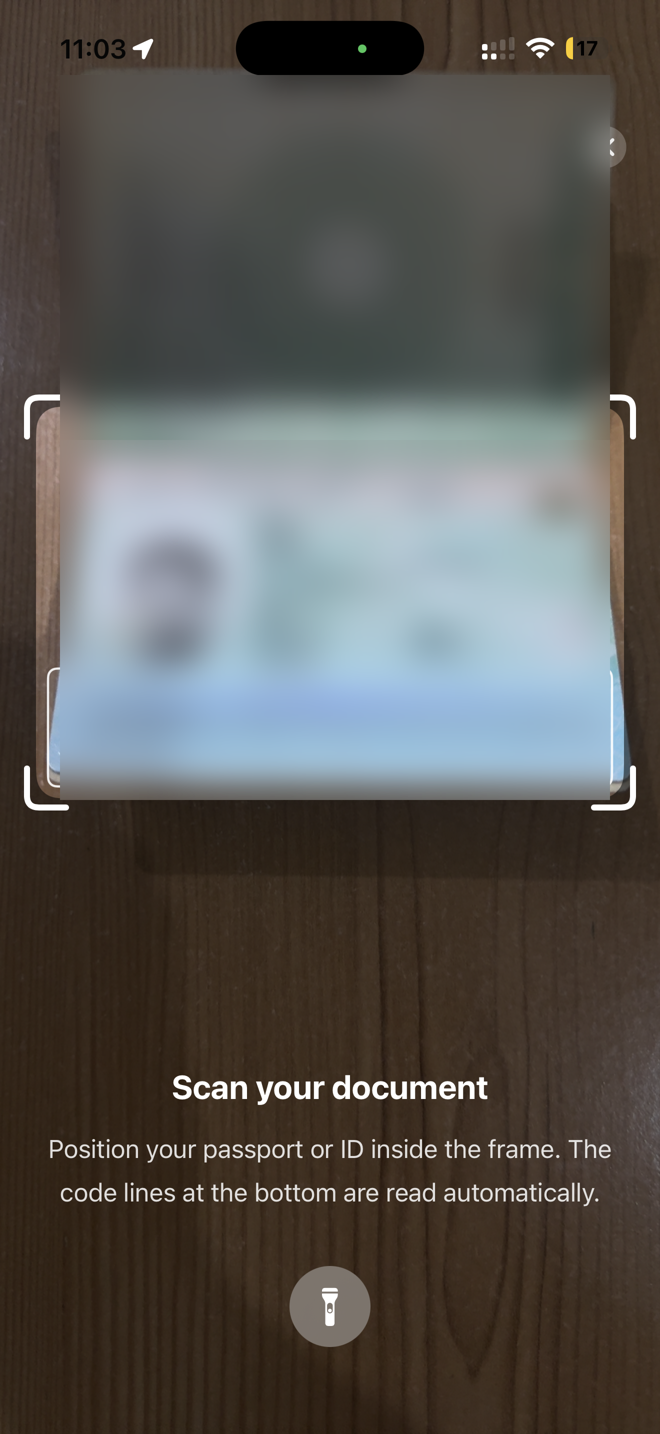
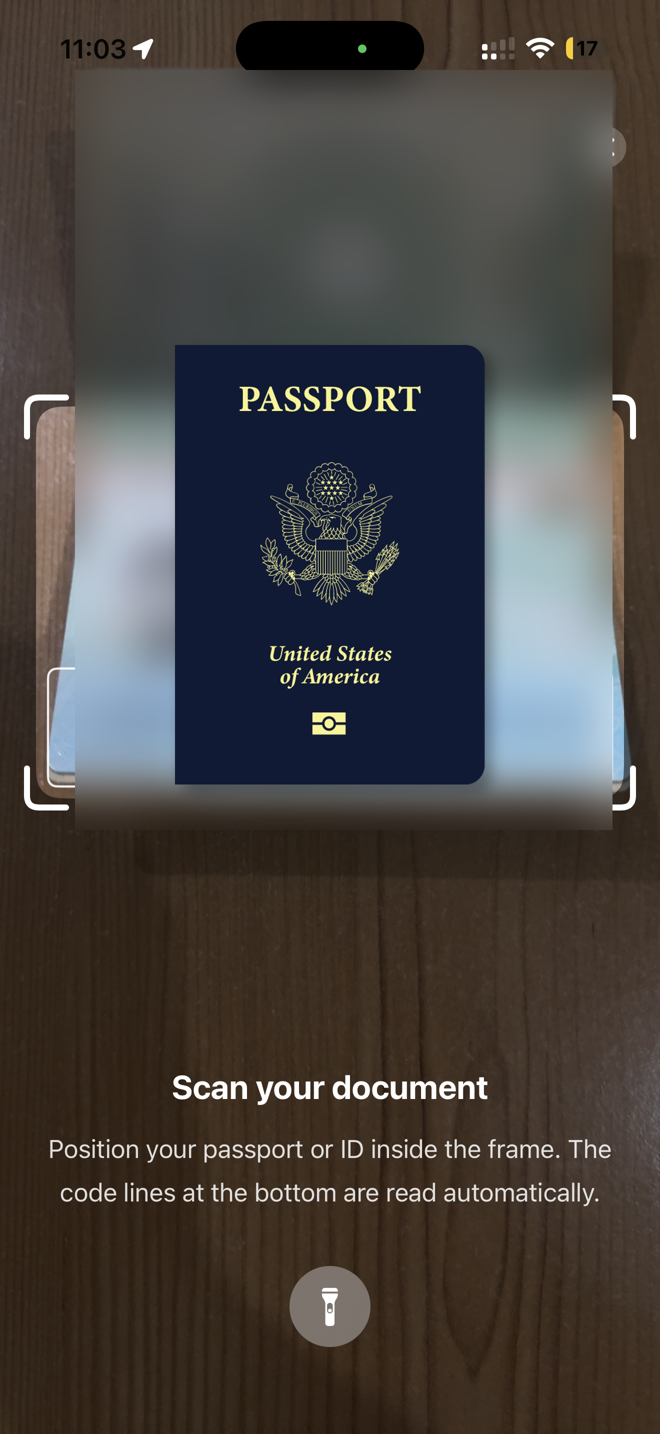
docs: demo portrait + US passport in showcase; left-align result badges
- Add an offline-generated illustrated demo portrait (not a real person)
  to the liveness circle, NFC chip-read, and verified-result shots
- Scan shot now shows the US passport; the real document's PII is fully
  removed. Specimen holder renamed to EMMA CARTER
- Left-align the success badges on the result screen (DEBUG resultSuccess
  + badge grouping)

diff --git a/Sources/IDVKitUI/IDVVerificationFlowView.swift b/Sources/IDVKitUI/IDVVerificationFlowView.swift
@@ -111,8 +111,8 @@ public struct IDVVerificationFlowView: View {
             self.onCompletion = onCompletion
             let mockMRZ = IDVMRZData(
                 format: .td3, documentType: "P", issuingCountry: "USA",
-                documentNumber: "X1234567", nationality: "USA", surname: "DOE",
-                givenNames: "JANE", birthDate: "900101", expiryDate: "300101", sex: "F"
+                documentNumber: "X1234567", nationality: "USA", surname: "CARTER",
+                givenNames: "EMMA", birthDate: "980314", expiryDate: "320314", sex: "F"
             )
             _scannedMRZ = State(initialValue: mockMRZ)
             let step: Step = switch screen {
@@ -728,16 +728,20 @@ public struct IDVVerificationFlowView: View {
                     .background(theme.surface, in: RoundedRectangle(cornerRadius: theme.cornerRadius))
                 }
 
-                // The chip is access-controlled by the scanned MRZ, so a
-                // successful read proves the scanned document matches the chip.
-                if mrzMatchesChip {
-                    badgeLabel(IDVStrings.Badge.mrzMatchesChip, systemImage: IDVIcon.mrzMatchesChip, color: theme.success)
+                // Success badges, grouped and left-aligned.
+                VStack(alignment: .leading, spacing: IDVLayout.Spacing.medium) {
+                    // The chip is access-controlled by the scanned MRZ, so a
+                    // successful read proves the scanned document matches the chip.
+                    if mrzMatchesChip {
+                        badgeLabel(IDVStrings.Badge.mrzMatchesChip, systemImage: IDVIcon.mrzMatchesChip, color: theme.success)
+                    }
+                    authenticityBadge(passport.authenticity.passiveAuthentication)
+                    antiCloneBadge(passport.authenticity)
+                    if let faceMatch {
+                        faceMatchBadge(faceMatch)
+                    }
                 }
-                authenticityBadge(passport.authenticity.passiveAuthentication)
-                antiCloneBadge(passport.authenticity)
-                if let faceMatch {
-                    faceMatchBadge(faceMatch)
-                }
+                .frame(maxWidth: .infinity, alignment: .leading)
 
                 Spacer()
                 primaryButton(titleKey: IDVStrings.Button.done) {

diff --git a/README.md b/README.md
@@ -139,7 +139,7 @@ The whole flow, real screens:
 | <img src="Assets/readme/sim/nfc-success.png" width="220"> | <img src="Assets/readme/sim/face-capture.png" width="220"> | <img src="Assets/readme/sim/result-success.png" width="220"> |
 | **Chip read ✓** | **Face + liveness** | **Verified ✓** |
 
-<sub>Document-holder details are blurred in the capture shots for privacy. Result data (JANE DOE / USA) is fake specimen data. Live capture in motion is in the demo GIF at the top (device recording).</sub>
+<sub>All demo data is fake specimen data (EMMA CARTER / USA); the portrait is an illustration, not a real person. Full-motion capture will be in the demo GIF at the top (device recording).</sub>
 
 <div align="center">
 
